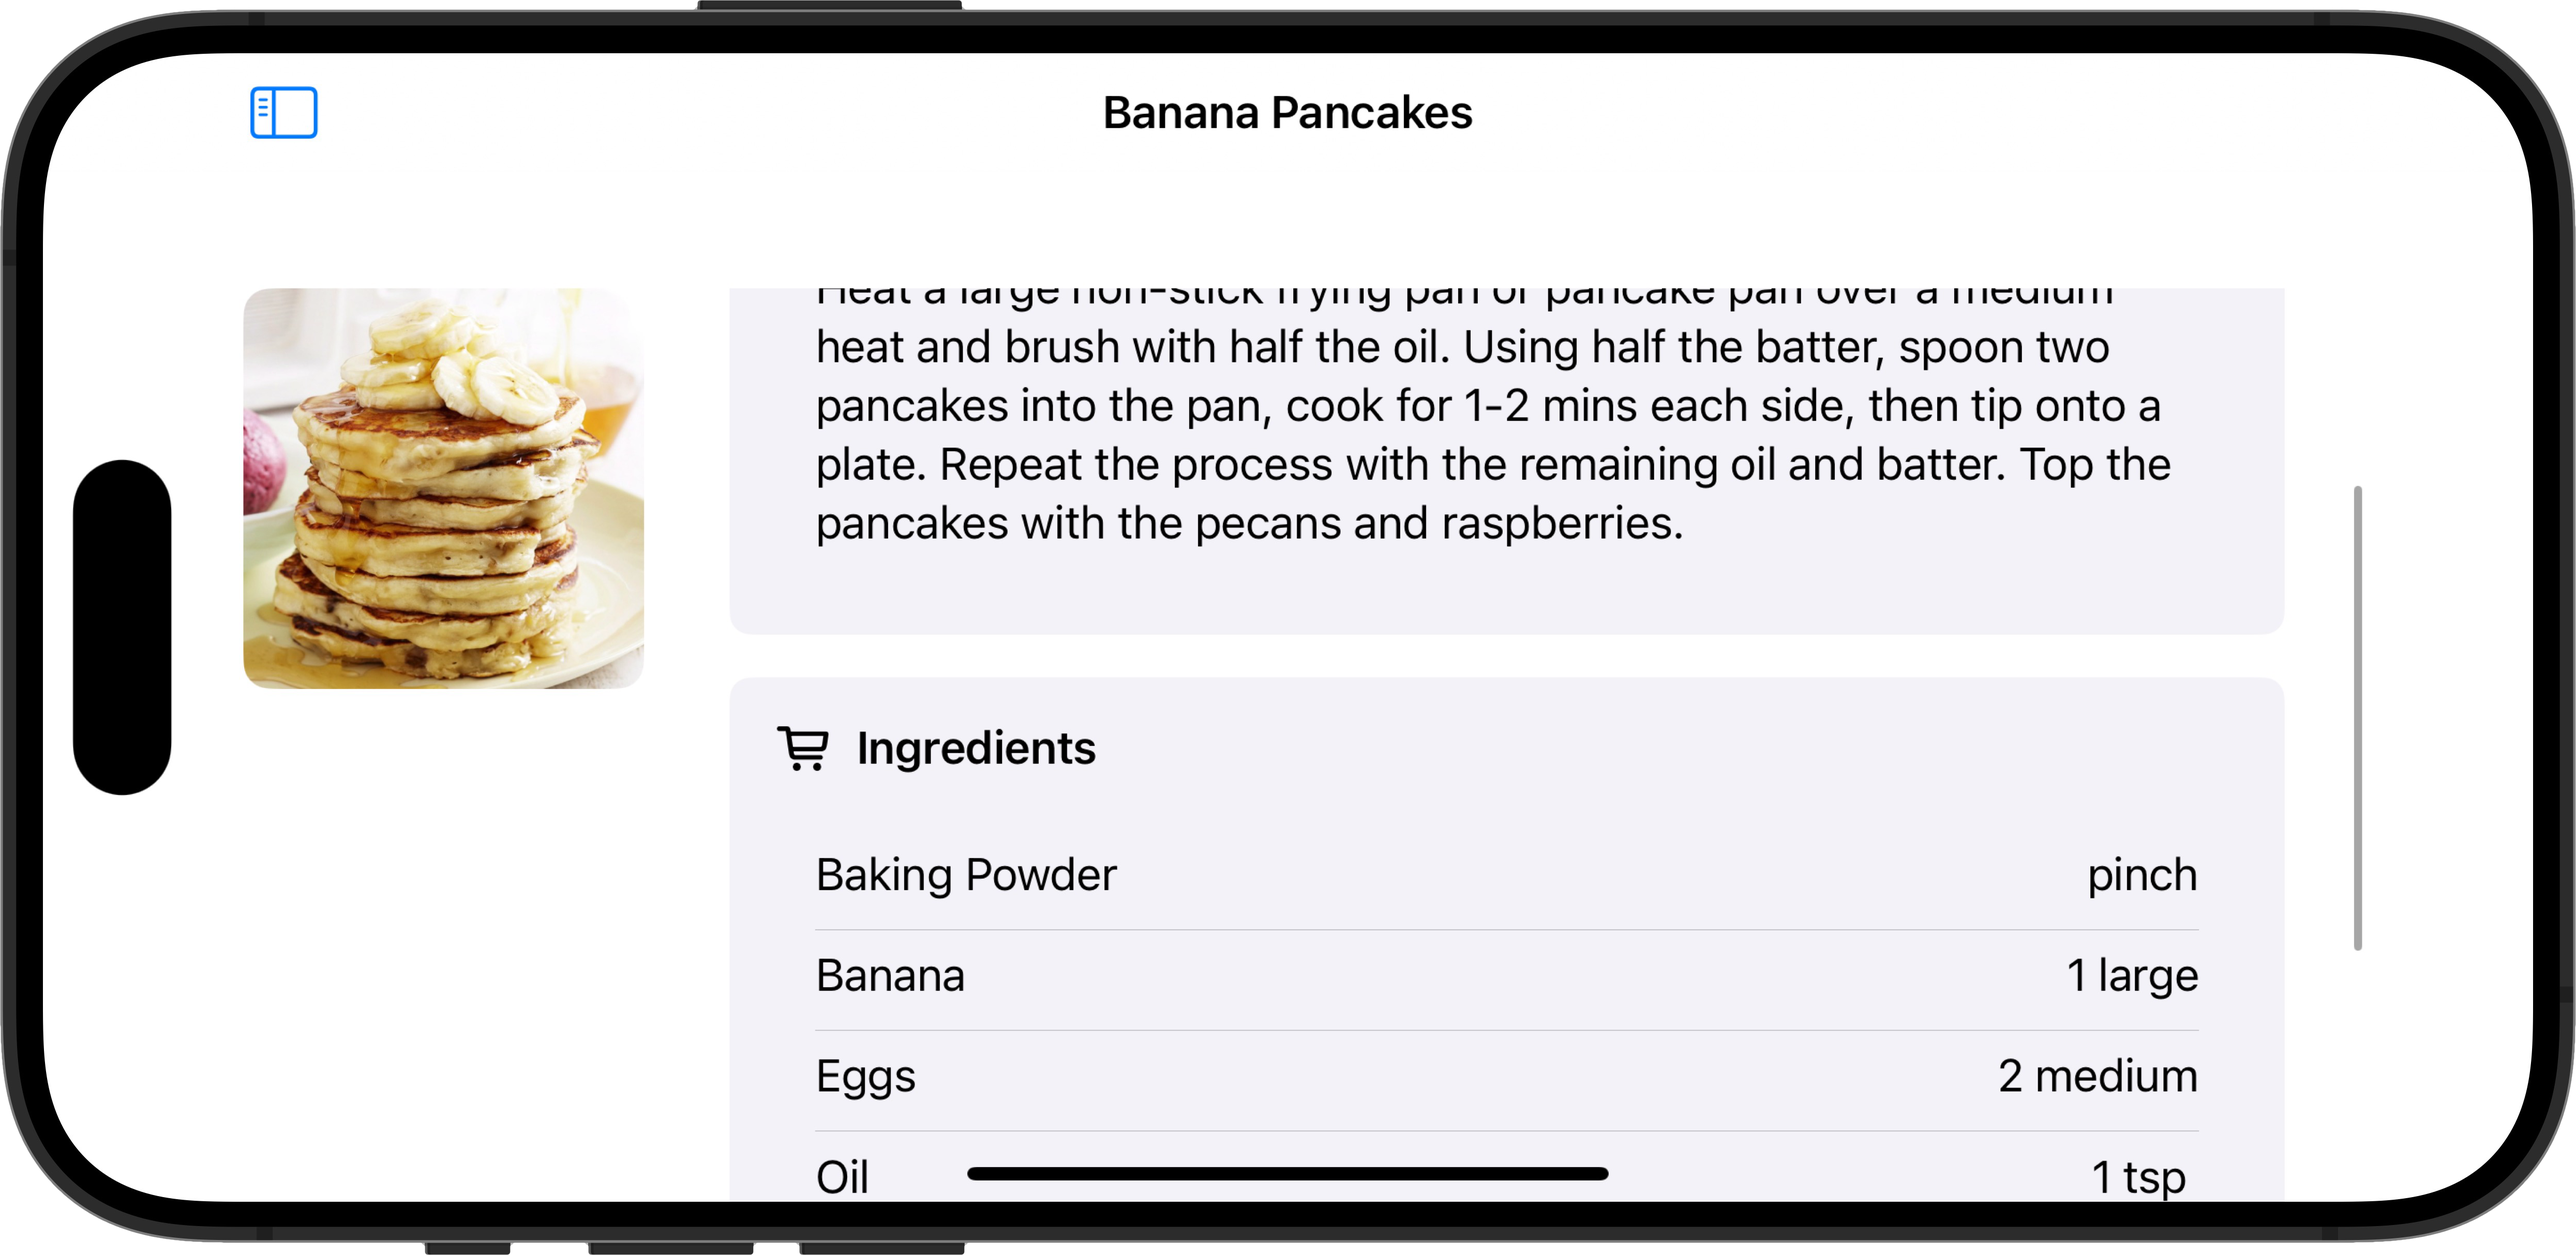
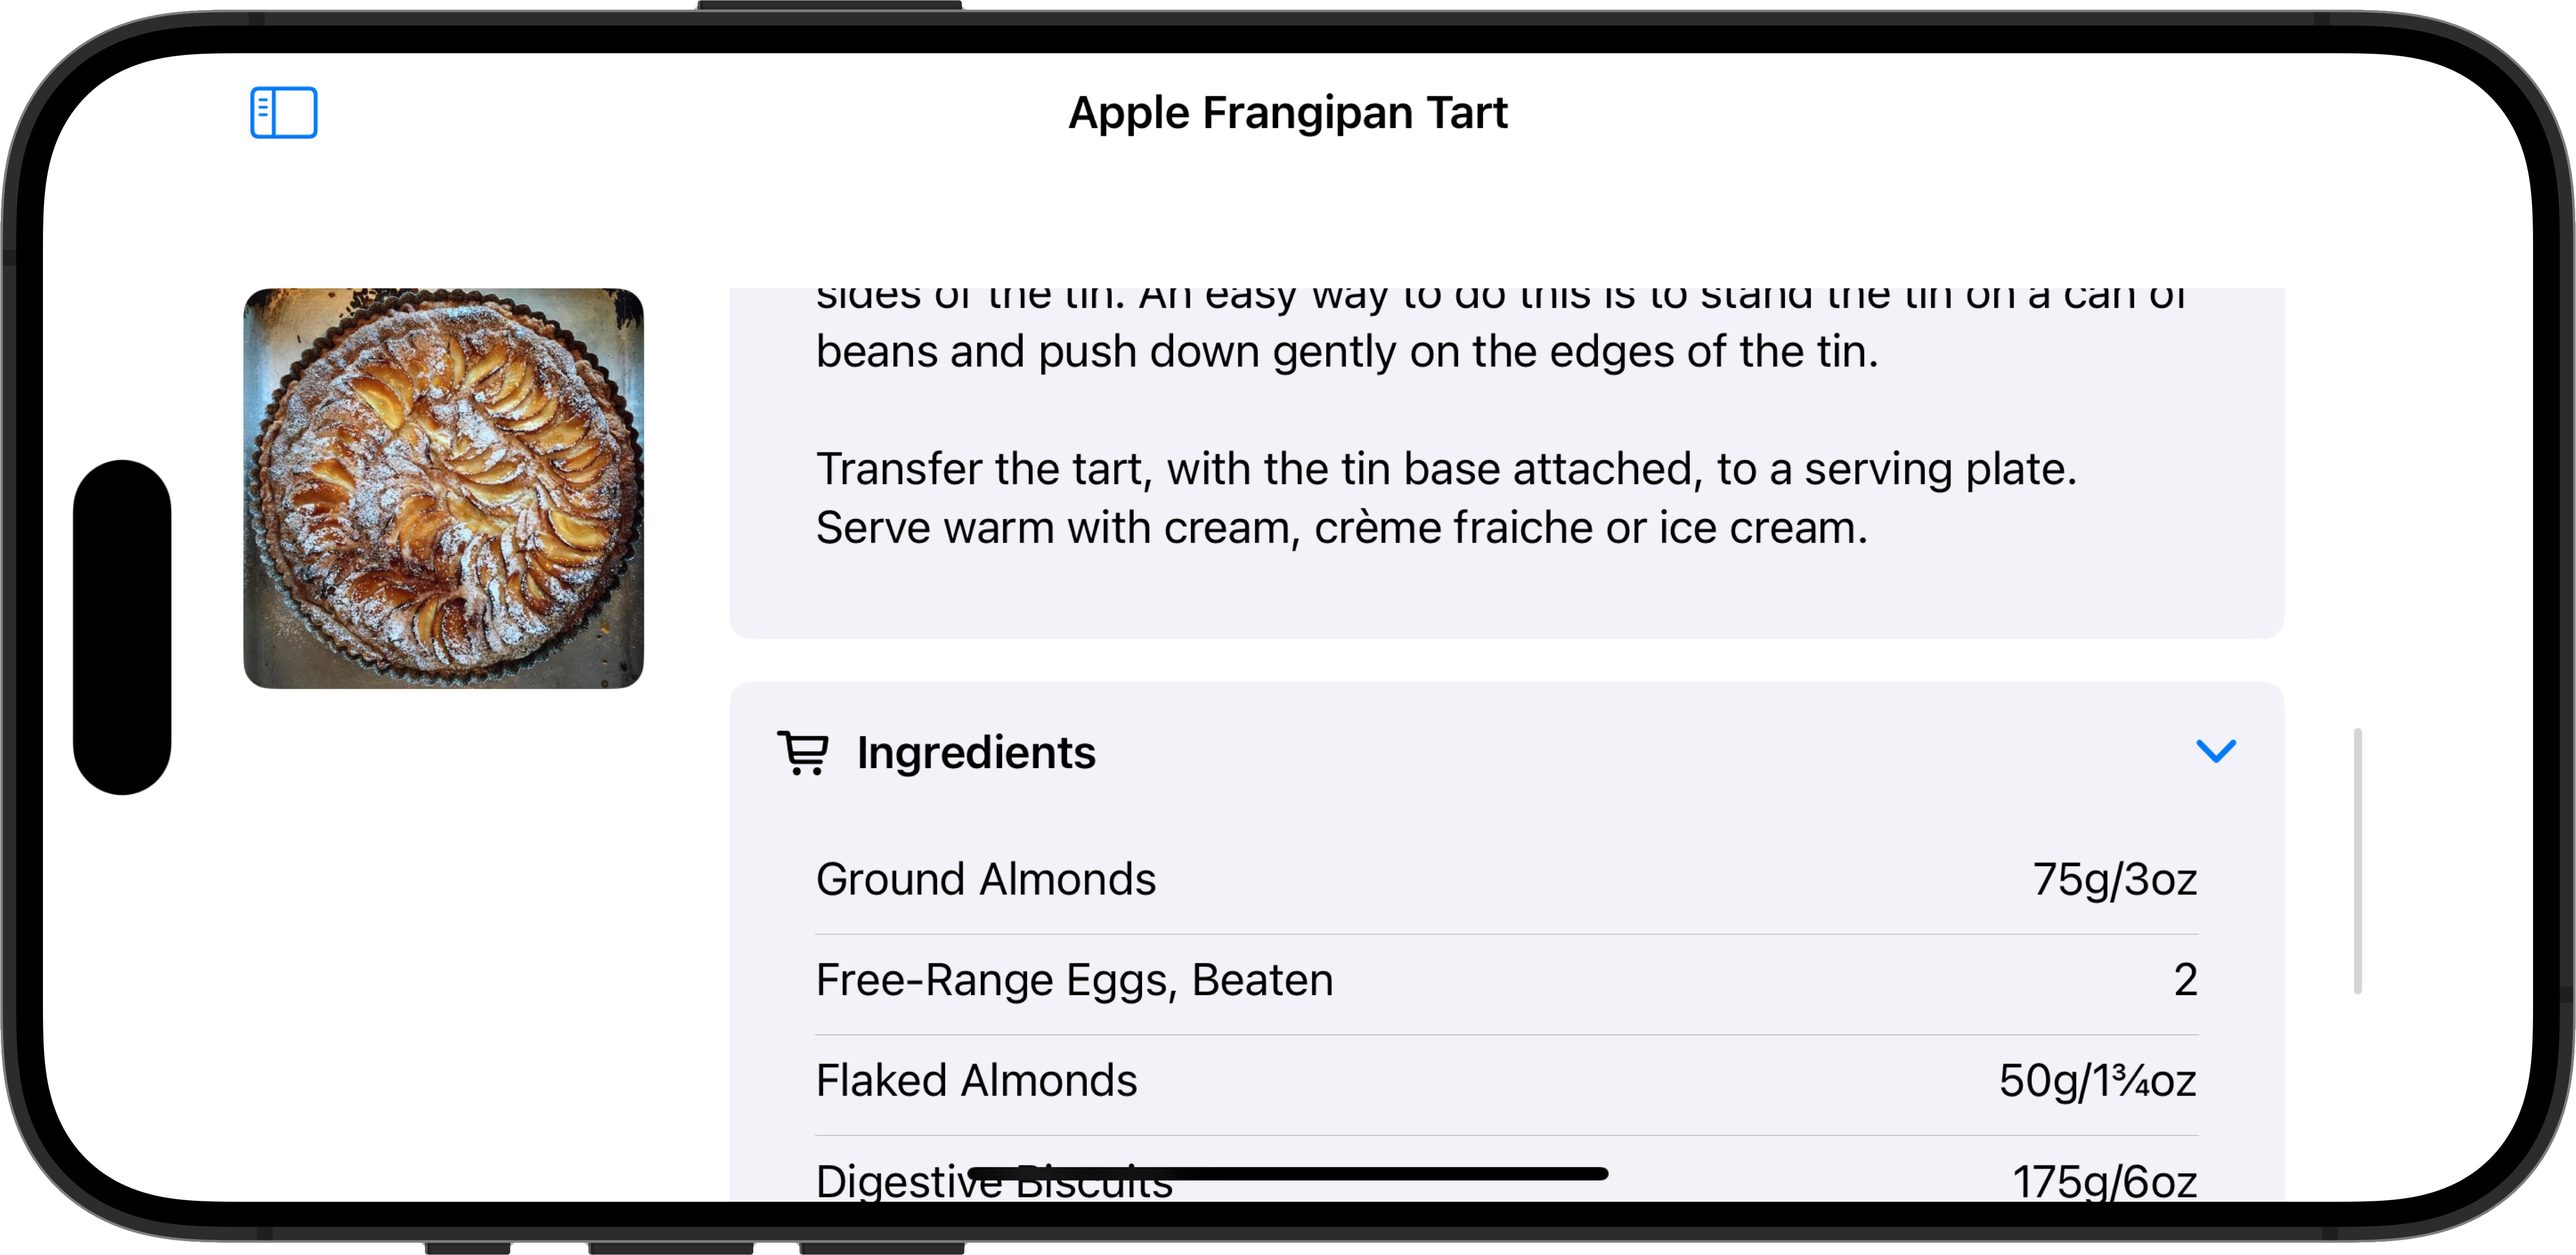
Add ingredients sorting button

diff --git a/Dessertly/Views/DessertDetailView.swift b/Dessertly/Views/DessertDetailView.swift
@@ -15,6 +15,7 @@ struct DessertDetailView: View {
     @State private var dessertDetail: DessertDetail?
     @State private var isLoading = true
     @State private var hasError = false
+    @State private var sortAscending = true
     
     private let viewModel = DessertDetailViewModel()
     
@@ -100,10 +101,20 @@ struct DessertDetailView: View {
     
     @ViewBuilder
     private func ingredientsSection(_ ingredients: [String: String]) -> some View {
-        if !ingredients.isEmpty {
-            GroupBox(label: Label("Ingredients", systemImage: "cart")) {
+        let sortedIngredients = sortIngredients(ingredients: ingredients)
+        
+        if !sortedIngredients.isEmpty {
+            GroupBox(label: HStack {
+                Label("Ingredients", systemImage: "cart")
+                Spacer()
+                Button(action: {
+                    sortAscending.toggle()
+                }) {
+                    Image(systemName: sortAscending ? "chevron.up" : "chevron.down")
+                }
+            }) {
                 VStack(alignment: .leading) {
-                    ForEach(ingredients.sorted(by: { $0.key < $1.key }), id: \.key) { ingredient, measure in
+                    ForEach(sortedIngredients, id: \.ingredient) { ingredient, measure in
                         HStack {
                             Text(ingredient)
                             Spacer()
@@ -116,6 +127,12 @@ struct DessertDetailView: View {
             }
             .padding(.horizontal)
         }
+    }
+    
+    private func sortIngredients(ingredients: [String: String]) -> [(ingredient: String, measure: String)] {
+        let ingredientsArray = ingredients.map { ($0.key, $0.value) }
+        let sortedIngredients = ingredientsArray.sorted { $0.0.lowercased() < $1.0.lowercased() }
+        return sortAscending ? sortedIngredients : sortedIngredients.reversed()
     }
     
     private func loadDessertDetail() async {
